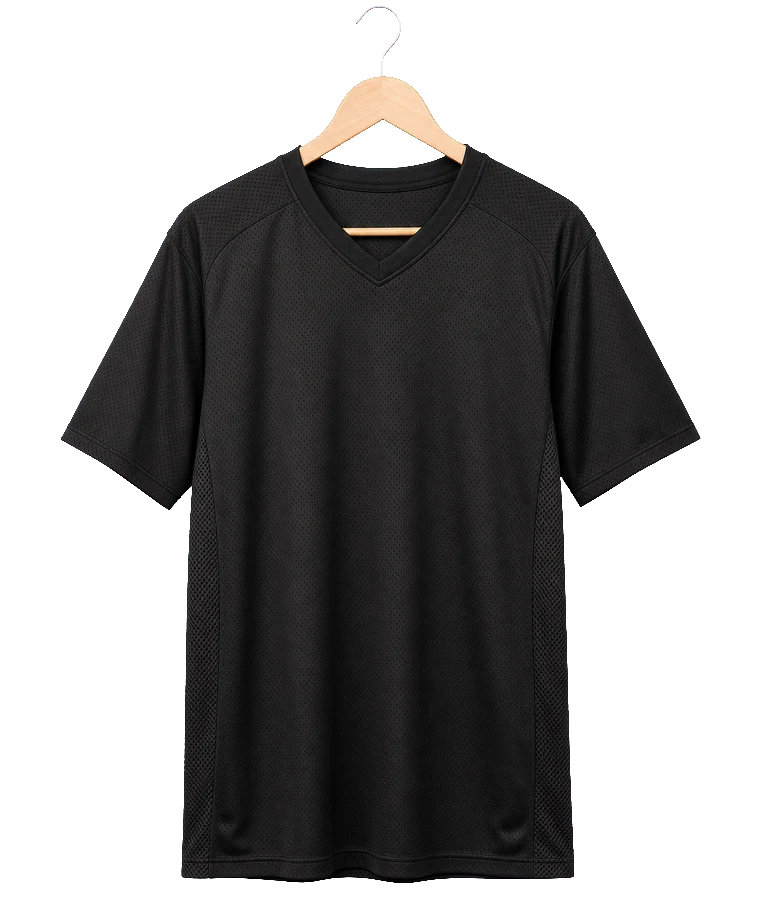
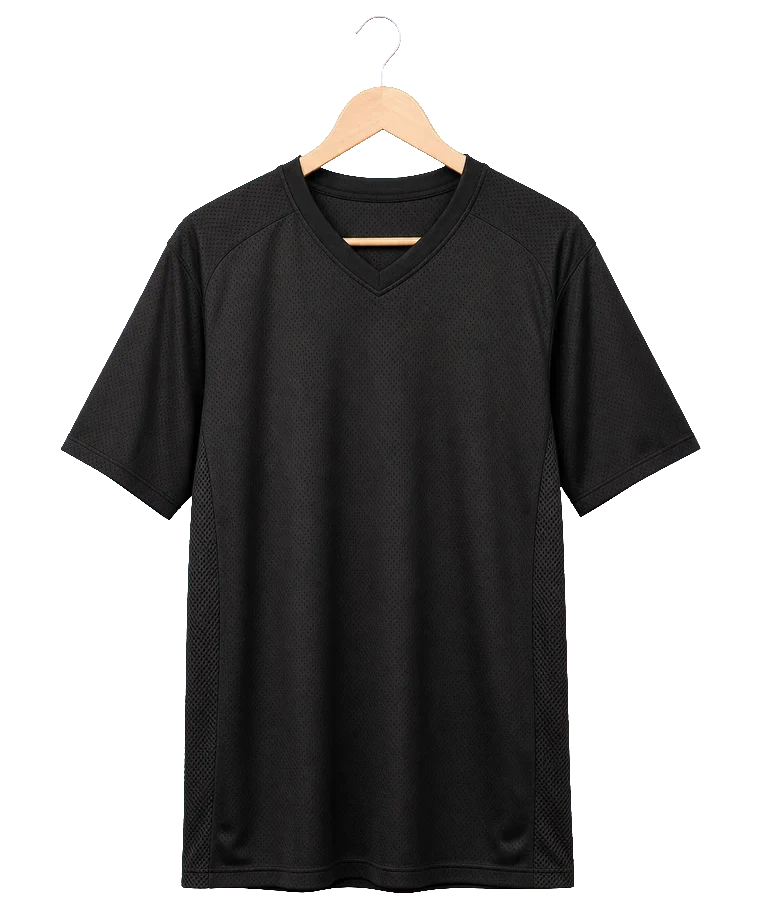
Add the remaining garments: seven fronts and six back views
- navy polo, charcoal hoodie, sand crewneck and corporate shirt shot on
  chroma key and keyed to transparency like the first three
- six back views wired to the dialog turntable (Front/Back controls now
  appear for nine of the ten rail slots)
- every garment re-aligned onto one shared 760x911 canvas with the
  hanger hook on the top edge, so the rail hangs them at one scale
- rail now shows all ten slots across seven distinct garments

diff --git a/index.html b/index.html
@@ -185,12 +185,13 @@
             <button class="aa-garment" type="button"
               data-index="01" data-name="Oversized T-Shirt" data-spec="T-Shirts / 240 GSM" data-href="/custom-t-shirts-dubai/"
               data-front="/images/rail/white-tee.webp"
+              data-back="/images/rail/white-tee-back.webp"
               data-copy="Heavyweight combed-cotton oversized tee, 240 GSM, wash-tested and cut in our Ajman factory. DTF, screen print or embroidery, MOQ from 10 pieces."
               aria-haspopup="dialog" aria-label="Oversized T-Shirt — T-Shirts / 240 GSM">
               <span class="aa-hanger-wire" aria-hidden="true"></span>
               <span class="aa-garment-swing">
                 <span class="aa-garment-turn">
-                  <img src="/images/rail/white-tee.webp" width="760" height="897" loading="eager" decoding="async"
+                  <img src="/images/rail/white-tee.webp" width="760" height="911" loading="eager" decoding="async"
                        alt="Oversized T-Shirt on a wooden hanger — custom t-shirts by Allegiant Attire, Ajman UAE" />
                 </span>
               </span>
@@ -199,125 +200,133 @@
             <button class="aa-garment" type="button"
               data-index="02" data-name="Sublimated Jersey" data-spec="Activewear / Dry-fit" data-href="/activewear-manufacturer-uae/"
               data-front="/images/rail/black-jersey.webp"
+              data-back="/images/rail/black-jersey-back.webp"
               data-copy="Full-sublimation football and training kit in breathable dry-fit polyester. Unlimited colours, club badges and numbers printed into the cloth."
               aria-haspopup="dialog" aria-label="Sublimated Jersey — Activewear / Dry-fit">
               <span class="aa-hanger-wire" aria-hidden="true"></span>
               <span class="aa-garment-swing">
                 <span class="aa-garment-turn">
-                  <img src="/images/rail/black-jersey.webp" width="760" height="897" loading="eager" decoding="async"
+                  <img src="/images/rail/black-jersey.webp" width="760" height="911" loading="eager" decoding="async"
                        alt="Sublimated Jersey on a wooden hanger — custom activewear by Allegiant Attire, Ajman UAE" />
                 </span>
               </span>
               <span class="aa-garment-index">02</span>
             </button>
             <button class="aa-garment" type="button"
-              data-index="03" data-name="Hi-Vis Safety Vest" data-spec="Safety / Site kit" data-href="/construction-safety-uniforms-uae/"
-              data-front="/images/rail/hivis-vest.webp"
-              data-copy="Class-2 style hi-vis vest with silver reflective banding, built for UAE site compliance. Company branding printed or heat-sealed to order."
-              aria-haspopup="dialog" aria-label="Hi-Vis Safety Vest — Safety / Site kit">
+              data-index="03" data-name="Pique Polo" data-spec="Polos / 220-260 GSM" data-href="/custom-polo-shirts-dubai/"
+              data-front="/images/rail/navy-polo.webp"
+              data-back="/images/rail/navy-polo-back.webp"
+              data-copy="Pique cotton and poly-rich polos with a three-button placket, finished with flat or 3D puff embroidery for corporate teams."
+              aria-haspopup="dialog" aria-label="Pique Polo — Polos / 220-260 GSM">
               <span class="aa-hanger-wire" aria-hidden="true"></span>
               <span class="aa-garment-swing">
                 <span class="aa-garment-turn">
-                  <img src="/images/rail/hivis-vest.webp" width="760" height="897" loading="eager" decoding="async"
-                       alt="Hi-Vis Safety Vest on a wooden hanger — custom safety by Allegiant Attire, Ajman UAE" />
+                  <img src="/images/rail/navy-polo.webp" width="760" height="911" loading="eager" decoding="async"
+                       alt="Pique Polo on a wooden hanger — custom polos by Allegiant Attire, Ajman UAE" />
                 </span>
               </span>
               <span class="aa-garment-index">03</span>
             </button>
             <button class="aa-garment" type="button"
-              data-index="04" data-name="DTF Printed Tee" data-spec="Print / Same-day" data-href="/dtf-printing-dubai/"
-              data-front="/images/rail/white-tee.webp"
-              data-copy="Direct-to-film transfers pressed in Ajman for same-day Dubai collection. Full colour, no setup fees, from a single piece upward."
-              aria-haspopup="dialog" aria-label="DTF Printed Tee — Print / Same-day">
+              data-index="04" data-name="Heavyweight Hoodie" data-spec="Hoodies / 400 GSM" data-href="/custom-hoodies-dubai/"
+              data-front="/images/rail/grey-hoodie.webp"
+              data-back="/images/rail/grey-hoodie-back.webp"
+              data-copy="400 GSM brushed fleece with a double-lined hood, kangaroo pocket and metal-tipped drawcords. Built for retail-grade private label runs."
+              aria-haspopup="dialog" aria-label="Heavyweight Hoodie — Hoodies / 400 GSM">
               <span class="aa-hanger-wire" aria-hidden="true"></span>
               <span class="aa-garment-swing">
                 <span class="aa-garment-turn">
-                  <img src="/images/rail/white-tee.webp" width="760" height="897" loading="eager" decoding="async"
-                       alt="DTF Printed Tee on a wooden hanger — custom print by Allegiant Attire, Ajman UAE" />
+                  <img src="/images/rail/grey-hoodie.webp" width="760" height="911" loading="eager" decoding="async"
+                       alt="Heavyweight Hoodie on a wooden hanger — custom hoodies by Allegiant Attire, Ajman UAE" />
                 </span>
               </span>
               <span class="aa-garment-index">04</span>
             </button>
             <button class="aa-garment" type="button"
-              data-index="05" data-name="Embroidered Team Kit" data-spec="Embroidery / 15-colour" data-href="/embroidery-services-dubai/"
-              data-front="/images/rail/black-jersey.webp"
-              data-copy="Japanese multi-head embroidery up to fifteen colours — chest crests, sleeve badges and sponsor marks stitched to spec."
-              aria-haspopup="dialog" aria-label="Embroidered Team Kit — Embroidery / 15-colour">
+              data-index="05" data-name="Crewneck Sweatshirt" data-spec="Private label / Loopback" data-href="/private-label-clothing-uae/"
+              data-front="/images/rail/sand-sweatshirt.webp"
+              data-back="/images/rail/sand-sweatshirt-back.webp"
+              data-copy="Loopback crewneck made to your tech pack: woven neck labels, hang tags, size chips and retail packaging under your own brand."
+              aria-haspopup="dialog" aria-label="Crewneck Sweatshirt — Private label / Loopback">
               <span class="aa-hanger-wire" aria-hidden="true"></span>
               <span class="aa-garment-swing">
                 <span class="aa-garment-turn">
-                  <img src="/images/rail/black-jersey.webp" width="760" height="897" loading="lazy" decoding="async"
-                       alt="Embroidered Team Kit on a wooden hanger — custom embroidery by Allegiant Attire, Ajman UAE" />
+                  <img src="/images/rail/sand-sweatshirt.webp" width="760" height="911" loading="lazy" decoding="async"
+                       alt="Crewneck Sweatshirt on a wooden hanger — custom private label by Allegiant Attire, Ajman UAE" />
                 </span>
               </span>
               <span class="aa-garment-index">05</span>
             </button>
             <button class="aa-garment" type="button"
-              data-index="06" data-name="Reflective Work Vest" data-spec="Workwear / Bulk" data-href="/construction-safety-uniforms-uae/"
-              data-front="/images/rail/hivis-vest.webp"
-              data-copy="Bulk site vests for contractors and facilities teams, size-sorted, poly-bagged and delivered across the Emirates in one to two days."
-              aria-haspopup="dialog" aria-label="Reflective Work Vest — Workwear / Bulk">
+              data-index="06" data-name="Corporate Shirt" data-spec="Uniforms / Office" data-href="/office-corporate-uniforms-dubai/"
+              data-front="/images/rail/corporate-shirt.webp"
+              data-copy="Tailored office and hospitality shirting with structured collars and chest pockets, sized and branded for whole teams."
+              aria-haspopup="dialog" aria-label="Corporate Shirt — Uniforms / Office">
               <span class="aa-hanger-wire" aria-hidden="true"></span>
               <span class="aa-garment-swing">
                 <span class="aa-garment-turn">
-                  <img src="/images/rail/hivis-vest.webp" width="760" height="897" loading="lazy" decoding="async"
-                       alt="Reflective Work Vest on a wooden hanger — custom workwear by Allegiant Attire, Ajman UAE" />
+                  <img src="/images/rail/corporate-shirt.webp" width="760" height="911" loading="lazy" decoding="async"
+                       alt="Corporate Shirt on a wooden hanger — custom uniforms by Allegiant Attire, Ajman UAE" />
                 </span>
               </span>
               <span class="aa-garment-index">06</span>
             </button>
             <button class="aa-garment" type="button"
-              data-index="07" data-name="Screen Printed Tee" data-spec="Print / Pantone" data-href="/screen-printing-dubai/"
-              data-front="/images/rail/white-tee.webp"
-              data-copy="Pantone-matched plastisol and water-based screen printing for runs above 100 pieces. Holds colour through fifty-plus industrial washes."
-              aria-haspopup="dialog" aria-label="Screen Printed Tee — Print / Pantone">
+              data-index="07" data-name="Hi-Vis Safety Vest" data-spec="Safety / Site kit" data-href="/construction-safety-uniforms-uae/"
+              data-front="/images/rail/hivis-vest.webp"
+              data-back="/images/rail/hivis-vest-back.webp"
+              data-copy="Hi-vis vests with silver reflective banding for UAE sites, branded front and back, size-sorted and delivered in bulk."
+              aria-haspopup="dialog" aria-label="Hi-Vis Safety Vest — Safety / Site kit">
               <span class="aa-hanger-wire" aria-hidden="true"></span>
               <span class="aa-garment-swing">
                 <span class="aa-garment-turn">
-                  <img src="/images/rail/white-tee.webp" width="760" height="897" loading="lazy" decoding="async"
-                       alt="Screen Printed Tee on a wooden hanger — custom print by Allegiant Attire, Ajman UAE" />
+                  <img src="/images/rail/hivis-vest.webp" width="760" height="911" loading="lazy" decoding="async"
+                       alt="Hi-Vis Safety Vest on a wooden hanger — custom safety by Allegiant Attire, Ajman UAE" />
                 </span>
               </span>
               <span class="aa-garment-index">07</span>
             </button>
             <button class="aa-garment" type="button"
-              data-index="08" data-name="Training Jersey" data-spec="Sportswear / Clubs" data-href="/activewear-manufacturer-uae/"
-              data-front="/images/rail/black-jersey.webp"
-              data-copy="Lightweight training tops for clubs, academies and corporate tournaments, with moisture-wicking mesh panels where the heat sits."
-              aria-haspopup="dialog" aria-label="Training Jersey — Sportswear / Clubs">
+              data-index="08" data-name="DTF Printed Tee" data-spec="Print / Same-day" data-href="/dtf-printing-dubai/"
+              data-front="/images/rail/white-tee.webp"
+              data-back="/images/rail/white-tee-back.webp"
+              data-copy="Direct-to-film transfers pressed in Ajman for same-day Dubai collection. Full colour, no setup fees, from a single piece upward."
+              aria-haspopup="dialog" aria-label="DTF Printed Tee — Print / Same-day">
               <span class="aa-hanger-wire" aria-hidden="true"></span>
               <span class="aa-garment-swing">
                 <span class="aa-garment-turn">
-                  <img src="/images/rail/black-jersey.webp" width="760" height="897" loading="lazy" decoding="async"
-                       alt="Training Jersey on a wooden hanger — custom sportswear by Allegiant Attire, Ajman UAE" />
+                  <img src="/images/rail/white-tee.webp" width="760" height="911" loading="lazy" decoding="async"
+                       alt="DTF Printed Tee on a wooden hanger — custom print by Allegiant Attire, Ajman UAE" />
                 </span>
               </span>
               <span class="aa-garment-index">08</span>
             </button>
             <button class="aa-garment" type="button"
-              data-index="09" data-name="Traffic Vest" data-spec="Safety / Compliance" data-href="/construction-safety-uniforms-uae/"
-              data-front="/images/rail/hivis-vest.webp"
-              data-copy="High-visibility traffic and marshal vests in orange or yellow, reflective taped, stocked and branded for fleets and events."
-              aria-haspopup="dialog" aria-label="Traffic Vest — Safety / Compliance">
+              data-index="09" data-name="School Uniform Polo" data-spec="Schools / Colourfast" data-href="/school-uniforms-uae/"
+              data-front="/images/rail/navy-polo.webp"
+              data-back="/images/rail/navy-polo-back.webp"
+              data-copy="Bulk school polos in colourfast fabrics chosen for UAE heat, with crest embroidery and house-colour trims."
+              aria-haspopup="dialog" aria-label="School Uniform Polo — Schools / Colourfast">
               <span class="aa-hanger-wire" aria-hidden="true"></span>
               <span class="aa-garment-swing">
                 <span class="aa-garment-turn">
-                  <img src="/images/rail/hivis-vest.webp" width="760" height="897" loading="lazy" decoding="async"
-                       alt="Traffic Vest on a wooden hanger — custom safety by Allegiant Attire, Ajman UAE" />
+                  <img src="/images/rail/navy-polo.webp" width="760" height="911" loading="lazy" decoding="async"
+                       alt="School Uniform Polo on a wooden hanger — custom schools by Allegiant Attire, Ajman UAE" />
                 </span>
               </span>
               <span class="aa-garment-index">09</span>
             </button>
             <button class="aa-garment" type="button"
-              data-index="10" data-name="Private Label Tee" data-spec="Private label / Full package" data-href="/private-label-clothing-uae/"
-              data-front="/images/rail/white-tee.webp"
-              data-copy="Your brand, our factory: woven neck labels, hang tags, size chips and retail packaging on a blank cut to your tech pack."
-              aria-haspopup="dialog" aria-label="Private Label Tee — Private label / Full package">
+              data-index="10" data-name="Embroidered Team Kit" data-spec="Embroidery / 15-colour" data-href="/embroidery-services-dubai/"
+              data-front="/images/rail/black-jersey.webp"
+              data-back="/images/rail/black-jersey-back.webp"
+              data-copy="Japanese multi-head embroidery up to fifteen colours — chest crests, sleeve badges and sponsor marks stitched to spec."
+              aria-haspopup="dialog" aria-label="Embroidered Team Kit — Embroidery / 15-colour">
               <span class="aa-hanger-wire" aria-hidden="true"></span>
               <span class="aa-garment-swing">
                 <span class="aa-garment-turn">
-                  <img src="/images/rail/white-tee.webp" width="760" height="897" loading="lazy" decoding="async"
-                       alt="Private Label Tee on a wooden hanger — custom private label by Allegiant Attire, Ajman UAE" />
+                  <img src="/images/rail/black-jersey.webp" width="760" height="911" loading="lazy" decoding="async"
+                       alt="Embroidered Team Kit on a wooden hanger — custom embroidery by Allegiant Attire, Ajman UAE" />
                 </span>
               </span>
               <span class="aa-garment-index">10</span>
@@ -374,10 +383,10 @@
         <button class="aa-detail-prev" type="button" aria-label="Previous garment">&#8249;</button>
         <div class="aa-detail-turntable">
           <div class="aa-detail-face aa-detail-front">
-            <img src="/images/rail/white-tee.webp" width="760" height="897" loading="lazy" decoding="async" alt="Allegiant Attire garment, front view" />
+            <img src="/images/rail/white-tee.webp" width="760" height="911" loading="lazy" decoding="async" alt="Allegiant Attire garment, front view" />
           </div>
           <div class="aa-detail-face aa-detail-back">
-            <img src="/images/rail/white-tee.webp" width="760" height="897" loading="lazy" decoding="async" alt="Allegiant Attire garment, back view" />
+            <img src="/images/rail/white-tee.webp" width="760" height="911" loading="lazy" decoding="async" alt="Allegiant Attire garment, back view" />
           </div>
         </div>
         <button class="aa-detail-next" type="button" aria-label="Next garment">&#8250;</button>
